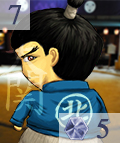
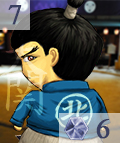
Players can now delete cards from programming board. Add commands for special cards in resources (not yet implemented).
Add special card commands to resources.

Change how writing of code to text file. Cards can be deleted from the list of commands (no visual presentation yet).

Returns deleted card to player.

Players can now delete cards from programming board.

Changed region(s): [[0.8, 0.8112, 0.925, 0.979], [0.125, 0.9231, 0.175, 0.979]]

diff --git a/game/cards.py b/game/cards.py
@@ -18,49 +18,80 @@ class Card(GameObject):
 			if y > (self.y - self.height*0.5) and y < (self.y + (self.height*0.5)):
 				return True
 
-	def set_pos(self, row, col):
-		return (5+0*80,7+0*80)
-
 	def on_mouse_press(self, x, y, button, modifiers):
 		if self.active and self.hit_test(x,y):
 			if self.world.game_state == Resources.state['PLAYER1']:
+				# if not yet programmed
+				player = self.world.find_game_object('Player1')
 				if not self.clicked:
-					player = self.world.find_game_object('Player1')
 					if player.mana >= self.mana:
 						# change labels
 						player.mana -= self.mana
 						mana = self.world.find_label('mana')
 						mana.text = player.get_mana_label()
 						self.world.program1.append(self)
+
+						# update position tracker
+						for i, card in enumerate(player.cards):
+							if card == self:
+								player.card_pos[i] = 0
+								break
+
 						self.clicked = True
 						self.x,self.y = Resources.card_pos2[len(self.world.program1)-1]
 
 						# write command to file
-						# self.world.player_program.write('blue ')
-						# self.world.player_program.write(self.command)
 						self.world.commands1.append(self.command)
-						
+
 						if self.type == "wrestler":
 							self.world.current_summon = Resources.sprites['wrestler_'+self.title+'_blue']
 
 						#prompt for player to input row and col
 						self.world.game_state = Resources.state['TILE1']
 
+				# delete card from program and put back to player
+				elif self.clicked:
+					self.clicked = False
+					player.mana += self.mana
+					mana = self.world.find_label('mana')
+					mana.text = player.get_mana_label()
+
+					# delete from program
+					for i, card in enumerate(self.world.program1):
+						if card == self:
+							self.world.commands1.pop(i)
+							self.world.program1.pop(i)
+							break
+
+					# return deleted card to player
+					for i in range(len(player.cards)):
+						if player.card_pos[i] == 0:
+							player.card_pos[i] = 1
+							self.x, self.y = Resources.card_pos1[i]
+							break
+
+					self.world.game_state = Resources.state['DELETE1']
+
 			elif self.world.game_state == Resources.state['PLAYER2']:
+				player = self.world.find_game_object('Player2')
 				if not self.clicked:
-					player = self.world.find_game_object('Player2')
 					if player.mana >= self.mana:
 						# change labels
 						player.mana -= self.mana
 						mana = self.world.find_label('mana')
 						mana.text = player.get_mana_label()
 						self.world.program2.append(self)
+
+						# update position tracker
+						for i, card in enumerate(player.cards):
+							if card == self:
+								player.card_pos[i] = 0
+								break
+
 						self.clicked = True
 						self.x,self.y = Resources.card_pos2[len(self.world.program2)-1]
 
 						# write command to file
-						# self.world.player_program.write('red ')
-						# self.world.player_program.write(self.command)
 						self.world.commands2.append(self.command)
 
 						if self.type == "wrestler":
@@ -68,6 +99,30 @@ class Card(GameObject):
 						
 						#prompt for player to input row and col
 						self.world.game_state = Resources.state['TILE2']
+
+				# delete card from program and put back to player
+				elif self.clicked:
+					self.clicked = False
+					player.mana += self.mana
+					mana = self.world.find_label('mana')
+					mana.text = player.get_mana_label()
+
+					# delete from program
+					for i, card in enumerate(self.world.program2):
+						if card == self:
+							self.world.commands2.pop(i)
+							self.world.program2.pop(i)
+							break
+
+					# return deleted card to player
+					for i in range(len(player.cards)):
+						if player.card_pos[i] == 0:
+							player.card_pos[i] = 1
+							self.x, self.y = Resources.card_pos1[i]
+							break
+
+					self.world.game_state = Resources.state['DELETE2']
+
 
 class MoveCard(Card):
 	def __init__(self,*args,**kwargs):

diff --git a/game/resources.py b/game/resources.py
@@ -22,15 +22,17 @@ class Resources:
 			'TRANSITION_PLAYER1':4,
 			'PLAYER1':5,
 			'TILE1':6,
-			'TRANSITION_PLAYER2':7,
-			'PLAYER2':8,
-			'TILE2':9,
-			'TRANSITION_BOARD':10,
-			'BOARD':11,
-			'EXECUTE':12,
-			'WAIT':13,
-			'REPLENISH':14,
-			'END':15
+			'DELETE1':7,
+			'TRANSITION_PLAYER2':8,
+			'PLAYER2':9,
+			'TILE2':10,
+			'DELETE2':11,
+			'TRANSITION_BOARD':12,
+			'BOARD':13,
+			'EXECUTE':14,
+			'WAIT':15,
+			'REPLENISH':16,
+			'END':17
 			}
 
 	player = {'RED':1,'BLUE':2} # player side
@@ -46,12 +48,23 @@ class Resources:
 	special_cards = ['avatar','fat up','hex','jump','kamikaze','reverse','swap','take down']
 	special_cards_det = {'AVATAR':(6,"Allied wrestler will become invulnerable to any enemy. This will last until the round ends."),
 						 'FAT UP':(3,"Increases weight of an allied wrestler by a random value between [0,5]"),
-						 'HEX':(7,"Turns an enemy wrestler in to an animal lowering its weight to 0."),
+						 'HEX':(7,"Turns an enemy wrestler into an animal, lowering its weight to 0."),
 						 'JUMP':(3,"Allied wrestler jumps and skips one tile within the lane."),
 						 'KAMIKAZE':(5, "Allied wrestler commits suicide while also killing all the adjacent enemy wrestlers."),
 						 'REVERSE':(4, "Reverses the current direction of any wrestler."),
 						 'SWAP':(7,"Swaps an allied wrestler with an enemy wrestler."),
 						 'TAKE DOWN':(4,"Disables all the power cards and moves applied to the enemy wrestler.")
+						}
+
+	# format: special <mana> <number of parameters> 
+	special_cards_comm = {'AVATAR':"special 6 1",
+						 'FAT UP':"special 3 1",
+						 'HEX':"special 7 1",
+						 'JUMP':"special 3 1",
+						 'KAMIKAZE':"special 5 1",
+						 'REVERSE':"special 4 1",
+						 'SWAP':"special 7 1",
+						 'TAKE DOWN':"special 4 1"
 						}
 
 	card_priority = {

diff --git a/game/world.py b/game/world.py
@@ -82,6 +82,8 @@ class GameWorld(GameObject):
 				card.image = Resources.sprites['card_'+card.title+'_red']
 			player.add_card(card)
 
+		player.card_pos = [1]*10
+
 	def set_player_names(self):
 		p1 = self.find_game_object('Player1')
 		p1.actual_name = self.find_widget('text_p1').document.text
@@ -447,6 +449,12 @@ class GameWorld(GameObject):
 		elif self.game_state == Resources.state['PLAYER1']:
 			self.start_round = True
 
+		elif self.game_state == Resources.state['DELETE1']:
+			for i, card in enumerate(self.program1):
+				card.x, card.y = Resources.card_pos2[i]
+			
+			self.game_state = Resources.state['PLAYER1']
+
 		elif self.game_state == Resources.state['TRANSITION_PLAYER2']:
 			if self.start_round:
 				self.reset_virtual_list()
@@ -464,6 +472,12 @@ class GameWorld(GameObject):
 	
 		elif self.game_state == Resources.state['PLAYER2']:
 			self.start_round = True
+
+		elif self.game_state == Resources.state['DELETE2']:
+			for i, card in enumerate(self.program2):
+				card.x, card.y = Resources.card_pos2[i]
+			
+			self.game_state = Resources.state['PLAYER2']
 
 		elif self.game_state == Resources.state['TRANSITION_BOARD']:
 			self.reset_virtual_list()
@@ -564,7 +578,6 @@ class GameWorld(GameObject):
 			if player1.lives <= 0 or player2.lives <=0:
 				self.switch_to_end()
 				return
-
 
 			if self.sequence == []:
 				self.game_state = Resources.state['REPLENISH']

diff --git a/game/board.py b/game/board.py
@@ -75,13 +75,17 @@ class Tile(GameObject):
 		if self.hit_test(x,y):
 			#lprint "Tile:",self.name,"x=",self.x,"y=",self.y,"width=",self.width,"height:",self.height
 			if self.world.game_state == Resources.state['TILE1']:
-				self.world.commands1.append(" " + str(self.row) + " " + str(self.col) + "\n")
+				command = self.world.commands1.pop(-1)
+				command = command + " " + str(self.row) + " " + str(self.col) + "\n"
+				self.world.commands1.append(command)
 				self.image = self.world.current_summon
 				self.world.virtual_list.append(self)
 				self.world.game_state = Resources.state['PLAYER1']
 
 			elif self.world.game_state == Resources.state['TILE2']:
-				self.world.commands2.append(" " + str(self.row) + " " + str(self.col) + "\n")
+				command = self.world.commands2.pop(-1)
+				command = command + " " + str(self.row) + " " + str(self.col) + "\n"
+				self.world.commands2.append(command)
 				self.image = self.world.current_summon
 				self.world.virtual_list.append(self)
 				self.world.game_state = Resources.state['PLAYER2']

diff --git a/game/player.py b/game/player.py
@@ -7,11 +7,10 @@ class Player(GameObject):
 		self.lives = 20
 		self.mana = 10
 		self.cards = []
-		#self.power_cards = []
-		#self.sumo_cards = []
 		self.active = False
 		self.visible = True
 		self.opacity = 180
+		self.card_pos = []
 
 	def get_life_label(self):
 		return str(self.lives)

diff --git a/sumon.py b/sumon.py
@@ -28,7 +28,7 @@ my_bg = Background(name = 'my_bg',
 					img =  Resources.sprites['title_bg'])
 
 music = Resources.audio['ost']
-music.play()
+# music.play()
 
 @game_window.event
 def on_draw():
